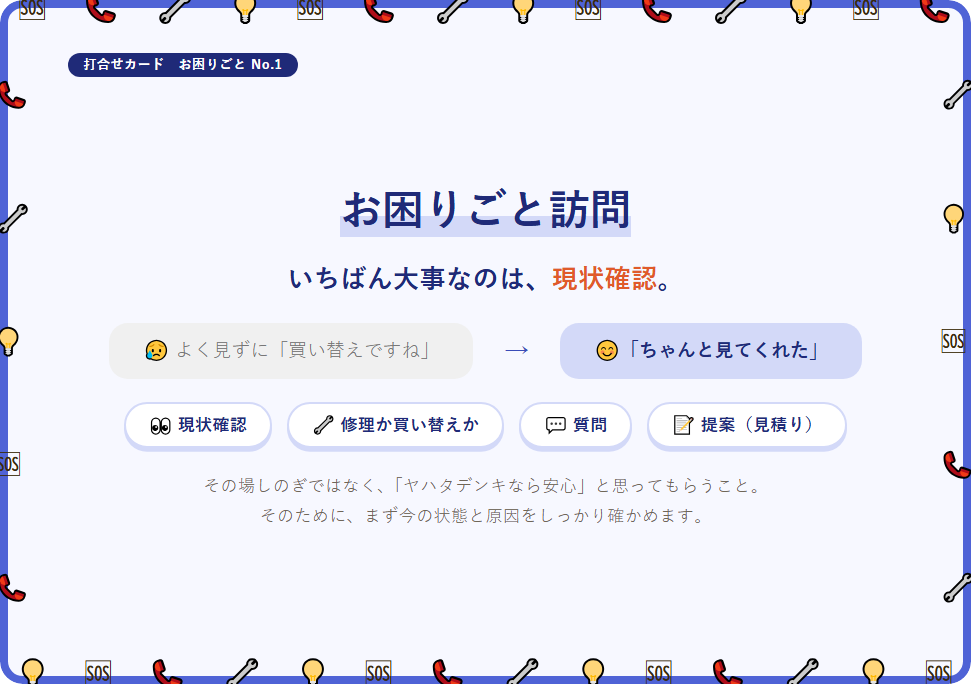
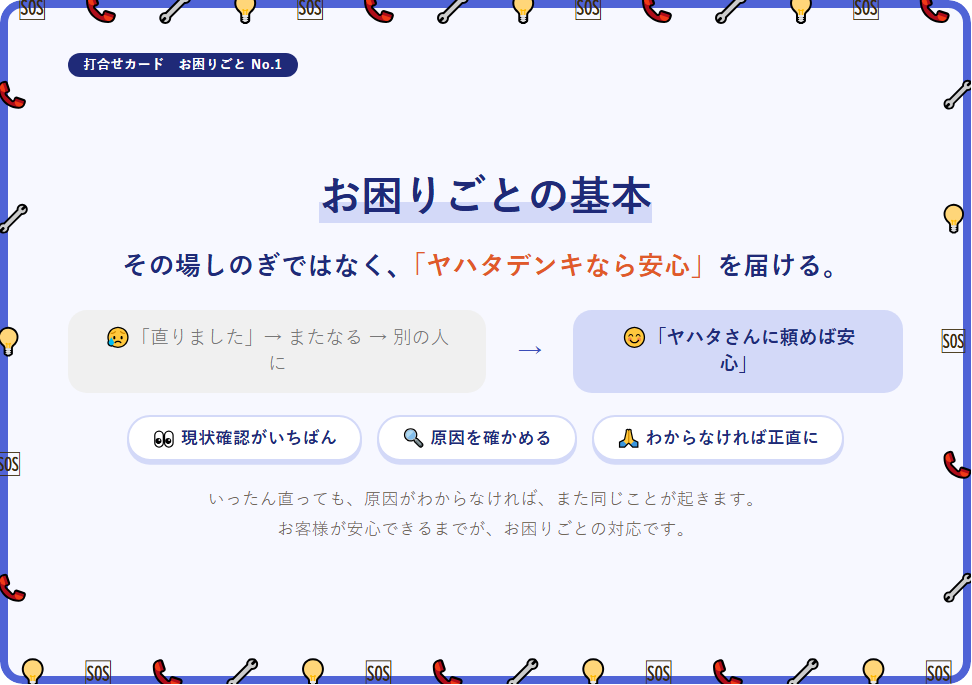
お困りごとNo.1を「お困りごとの基本」に（安心を届ける・原因がわかってから直ったと言う）
Claude-Session: https://claude.ai/code/session_01SZNrdcyrN7aKEt1o21LvYk

Changed region(s): [[0.1235, 0.2453, 0.9259, 0.7971], [0.0926, 0.4599, 0.463, 0.5212], [0.7407, 0.3679, 0.8642, 0.3985]]

diff --git a/card-trouble-1.html b/card-trouble-1.html
@@ -3,10 +3,10 @@
 <head>
 <meta charset="UTF-8">
 <meta name="viewport" content="width=1010">
-<title>打合せカード1 お困りごと訪問｜ヤハタ電機商会</title>
+<title>打合せカード1 お困りごとの基本｜ヤハタ電機商会</title>
 <meta property="og:type" content="website">
-<meta property="og:title" content="お困りごとカード　お困りごと訪問">
-<meta property="og:description" content="いちばん大事なのは、現状確認。">
+<meta property="og:title" content="お困りごとカード　お困りごとの基本">
+<meta property="og:description" content="その場しのぎではなく、「ヤハタデンキなら安心」を届ける。">
 <meta property="og:image" content="https://yahatadennki.github.io/report/img/card-trouble-1.png">
 <meta property="og:url" content="https://yahatadennki.github.io/report/card-trouble-1.html">
 <meta name="twitter:card" content="summary_large_image">
@@ -100,11 +100,11 @@
 
   <div class="top"><span class="no">打合せカード　お困りごと No.1</span><span></span></div>
   <div class="front">
-    <h1><em>お困りごと訪問</em></h1>
-    <p class="msg">いちばん大事なのは、<b>現状確認</b>。</p>
-    <div class="vs"><div class="ng">😥 よく見ずに「買い替えですね」</div><div class="ar">→</div><div class="ok">😊「ちゃんと見てくれた」</div></div>
-    <div class="chips"><span>👀 現状確認</span><span>🔧 修理か買い替えか</span><span>💬 質問</span><span>📝 提案（見積り）</span></div>
-    <p class="one">その場しのぎではなく、「ヤハタデンキなら安心」と思ってもらうこと。<br>そのために、まず今の状態と原因をしっかり確かめます。</p>
+    <h1><em>お困りごとの基本</em></h1>
+    <p class="msg">その場しのぎではなく、<b>「ヤハタデンキなら安心」</b>を届ける。</p>
+    <div class="vs"><div class="ng">😥「直りました」→ またなる → 別の人に</div><div class="ar">→</div><div class="ok">😊「ヤハタさんに頼めば安心」</div></div>
+    <div class="chips"><span>👀 現状確認がいちばん</span><span>🔍 原因を確かめる</span><span>🙏 わからなければ正直に</span></div>
+    <p class="one">いったん直っても、原因がわからなければ、また同じことが起きます。<br>お客様が安心できるまでが、お困りごとの対応です。</p>
   </div>
 </div>
 
@@ -115,17 +115,17 @@
   <div class="col-f l"><span>📞</span><span>🔧</span><span>💡</span><span>🆘</span><span>📞</span></div>
   <div class="col-f r"><span>🔧</span><span>💡</span><span>🆘</span><span>📞</span><span>🔧</span></div>
 
-  <div class="top"><span class="no">打合せカード　お困りごと No.1　お困りごと訪問</span><span></span></div>
+  <div class="top"><span class="no">打合せカード　お困りごと No.1　お困りごとの基本</span><span></span></div>
   <div class="back">
     <div class="box">
-      <h2>お困りごと訪問の流れ</h2>
-      <div class="roles sm"><div class="role" style="--rc:#d9ebfa;--rk:#164a7a"><span class="e">👀</span><div><div class="n">現状確認</div><div class="x">原因まで確かめる。「直りました」は原因がわかってから</div></div></div><div class="role" style="--rc:#dcefd2;--rk:#2b5a1e"><span class="e">🔧</span><div><div class="n">修理か買い替えか</div><div class="x">直せるか。年数・部品・費用で考える</div></div></div><div class="role" style="--rc:#fff1c2;--rk:#7a4d10"><span class="e">💬</span><div><div class="n">質問</div><div class="x">使い方・使う時間・困っていることを聞く</div></div></div><div class="role" style="--rc:#e8dcf7;--rk:#4a2a78"><span class="e">📝</span><div><div class="n">提案（見積り）</div><div class="x">お客様に合うものを、見積りで出す</div></div></div><div class="role" style="--rc:#fde2cc;--rk:#7a3a0e"><span class="e">🤝</span><div><div class="n">成約</div><div class="x">決まったら、見積書で成約に</div></div></div></div>
+      <h2>基本の流れ</h2>
+      <div class="roles sm"><div class="role" style="--rc:#d9ebfa;--rk:#164a7a"><span class="e">👀</span><div><div class="n">現状確認</div><div class="x">今の状態と原因を、しっかり確かめる</div></div></div><div class="role" style="--rc:#dcefd2;--rk:#2b5a1e"><span class="e">🔧</span><div><div class="n">修理か買い替えか</div><div class="x">直せるか。年数・部品・費用で考える</div></div></div><div class="role" style="--rc:#fff1c2;--rk:#7a4d10"><span class="e">💬</span><div><div class="n">質問</div><div class="x">使い方・使う時間・困っていることを聞く</div></div></div><div class="role" style="--rc:#e8dcf7;--rk:#4a2a78"><span class="e">📝</span><div><div class="n">提案（見積り）</div><div class="x">お客様に合うものを、見積りで出す</div></div></div><div class="role" style="--rc:#fde2cc;--rk:#7a3a0e"><span class="e">🤝</span><div><div class="n">成約</div><div class="x">決まったら、見積書で成約に</div></div></div></div>
 
     </div>
     <div class="box">
-      <h2>毎回やること</h2>
-      <div class="memo"><b>📅 伺う前に、カレンダーを見る</b><p>事務が受けた内容を確かめてから出発。</p></div>
-      <ul class="vals"><li>🙏 原因がわからないときは正直に伝えて、すぐ相談</li><li>📝 日報は「原因」と「やったこと」を分けて書く</li><li>📸 型番の銘板を写真に残す</li></ul>
+      <h2>守ること</h2>
+      <div class="memo"><b>🔍「直りました」は、原因がわかってから</b><p>いったん点いた・動いただけでは、直ったと言わない。</p></div>
+      <ul class="vals"><li>🙏 わからないときは正直に伝えて、その場で相談</li><li>📝 日報は「原因」と「やったこと」を分けて書く</li><li>📞「また起きたら、すぐ連絡ください」と伝える</li></ul>
 
     </div>
   </div>

diff --git a/tools/cards-data.js b/tools/cards-data.js
@@ -779,20 +779,20 @@ module.exports = [
         memo:['🚚 2人で運ぶ（工事スタッフ）','重くて大きい。下見で幅を測っておく。'],
         vals:['① 搬入経路の確認（通路・ドア・階段）','② 養生（床と角、設置場所にマット）','③ 古いものを先に運び出す','④ 搬入・設置（倒してもうしろに当たらない）','⑤ 付属品の確認（すき間まで見る）','⑥ 一緒に座って動かす → 片付け'] }
 },
-{ no:1, who:'trouble', title:'お困りごと訪問',
-  why:{ msg:'いちばん大事なのは、<b>現状確認</b>。',
-        ng:'😥 よく見ずに「買い替えですね」', ok:'😊「ちゃんと見てくれた」',
-        chips:['👀 現状確認','🔧 修理か買い替えか','💬 質問','📝 提案（見積り）'],
-        one:'その場しのぎではなく、「ヤハタデンキなら安心」と思ってもらうこと。<br>そのために、まず今の状態と原因をしっかり確かめます。' },
-  how:{ h:'お困りごと訪問の流れ',
-        roles:[ {ic:'👀',n:'現状確認',t:'原因まで確かめる。「直りました」は原因がわかってから',bg:'#d9ebfa',k:'#164a7a'},
+{ no:1, who:'trouble', title:'お困りごとの基本',
+  why:{ msg:'その場しのぎではなく、<b>「ヤハタデンキなら安心」</b>を届ける。',
+        ng:'😥「直りました」→ またなる → 別の人に', ok:'😊「ヤハタさんに頼めば安心」',
+        chips:['👀 現状確認がいちばん','🔍 原因を確かめる','🙏 わからなければ正直に'],
+        one:'いったん直っても、原因がわからなければ、また同じことが起きます。<br>お客様が安心できるまでが、お困りごとの対応です。' },
+  how:{ h:'基本の流れ',
+        roles:[ {ic:'👀',n:'現状確認',t:'今の状態と原因を、しっかり確かめる',bg:'#d9ebfa',k:'#164a7a'},
                 {ic:'🔧',n:'修理か買い替えか',t:'直せるか。年数・部品・費用で考える',bg:'#dcefd2',k:'#2b5a1e'},
                 {ic:'💬',n:'質問',t:'使い方・使う時間・困っていることを聞く',bg:'#fff1c2',k:'#7a4d10'},
                 {ic:'📝',n:'提案（見積り）',t:'お客様に合うものを、見積りで出す',bg:'#e8dcf7',k:'#4a2a78'},
                 {ic:'🤝',n:'成約',t:'決まったら、見積書で成約に',bg:'#fde2cc',k:'#7a3a0e'} ] },
-  what:{ h:'毎回やること',
-        memo:['📅 伺う前に、カレンダーを見る','事務が受けた内容を確かめてから出発。'],
-        vals:['🙏 原因がわからないときは正直に伝えて、すぐ相談','📝 日報は「原因」と「やったこと」を分けて書く','📸 型番の銘板を写真に残す'] }
+  what:{ h:'守ること',
+        memo:['🔍「直りました」は、原因がわかってから','いったん点いた・動いただけでは、直ったと言わない。'],
+        vals:['🙏 わからないときは正直に伝えて、その場で相談','📝 日報は「原因」と「やったこと」を分けて書く','📞「また起きたら、すぐ連絡ください」と伝える'] }
 },
 { no:2, who:'trouble', title:'テレビがつかない・映らない',
   why:{ msg:'カレンダーを見て、<b>順番に</b>見る。',

diff --git a/cards.html b/cards.html
@@ -111,7 +111,7 @@
   <section id="trouble" style="--f:#4f63d6;--bg:#d3d9f8">
     <h2><span class="ic">🆘</span>お困りごと<span class="cnt">9枚</span></h2>
     <div class="list">
-      <a class="ci" href="card-trouble-1.html"><span class="n">No.1</span><span class="t">お困りごと訪問</span></a>
+      <a class="ci" href="card-trouble-1.html"><span class="n">No.1</span><span class="t">お困りごとの基本</span></a>
       <a class="ci" href="card-trouble-2.html"><span class="n">No.2</span><span class="t">テレビがつかない・映らない</span></a>
       <a class="ci" href="card-trouble-3.html"><span class="n">No.3</span><span class="t">照明がつかない・チカチカする</span></a>
       <a class="ci" href="card-trouble-4.html"><span class="n">No.4</span><span class="t">エアコンが効かない・水がたれる</span></a>
